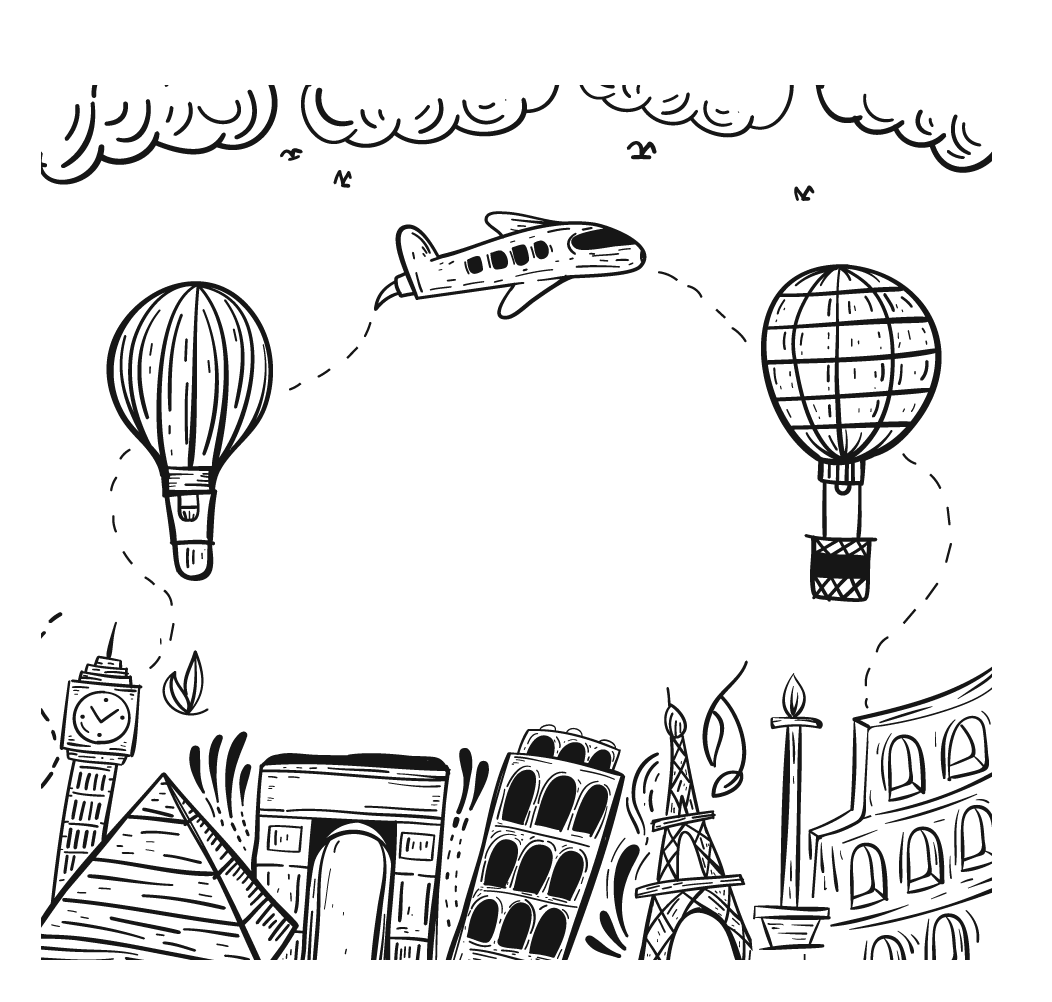
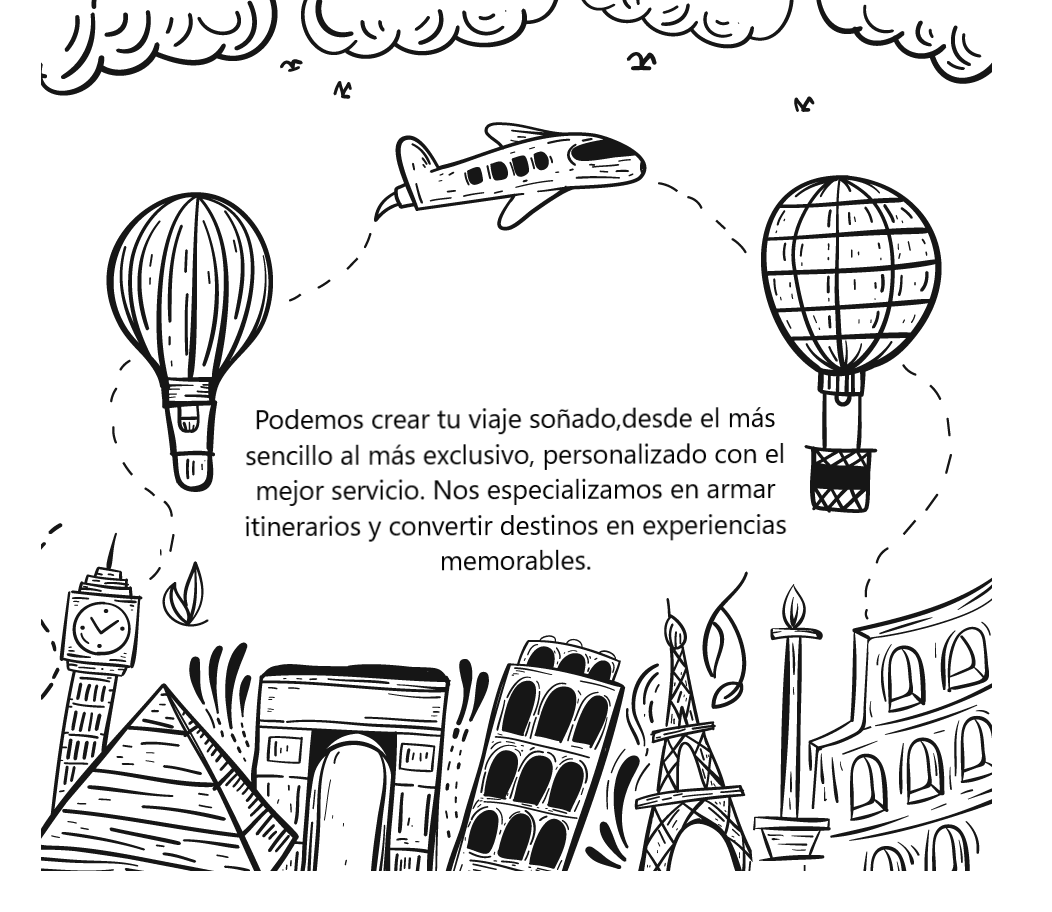
cambios con sass

diff --git a/index.html b/index.html
@@ -1,6 +1,27 @@
 <!DOCTYPE html>
 <html lang="en">
 <head>
+    <!-- Google Tag Manager -->
+<script>(function(w,d,s,l,i){w[l]=w[l]||[];w[l].push({'gtm.start':
+    new Date().getTime(),event:'gtm.js'});var f=d.getElementsByTagName(s)[0],
+    j=d.createElement(s),dl=l!='dataLayer'?'&l='+l:'';j.async=true;j.src=
+    'https://www.googletagmanager.com/gtm.js?id='+i+dl;f.parentNode.insertBefore(j,f);
+    })(window,document,'script','dataLayer','GTM-PBJB64N');</script>
+    <!-- End Google Tag Manager -->
+    <!-- Google tag (gtag.js) -->
+<script async src="https://www.googletagmanager.com/gtag/js?id=G-M3BYC2M1TW"></script>
+<script>
+  window.dataLayer = window.dataLayer || [];
+  function gtag(){dataLayer.push(arguments);}
+  gtag('js', new Date());
+
+  gtag('config', 'G-M3BYC2M1TW');
+</script>
+    <meta name="description"
+   content="Reserva tu paquete turístico en cuotas sin interés y empieza a distfrutar tus vacaciones!">
+
+   <meta name="keywords"
+   content="Viaja, Viajes, Tours, Reservas, Paquetes, Vuelos, Hospedaje, Turismo,">
     <meta charset="UTF-8">
     <meta http-equiv="X-UA-Compatible" content="IE=edge">
     <meta name="viewport" content="width=device-width, initial-scale=1.0">
@@ -10,9 +31,14 @@
     <link href="https://cdn.jsdelivr.net/npm/bootstrap@5.2.0/dist/css/bootstrap.min.css" rel="stylesheet" integrity="sha384-gH2yIJqKdNHPEq0n4Mqa/HGKIhSkIHeL5AyhkYV8i59U5AR6csBvApHHNl/vI1Bx" crossorigin="anonymous">       
     <link rel="stylesheet" href="./styles/styles.css">
     <link href="https://unpkg.com/aos@2.3.1/dist/aos.css" rel="stylesheet">
+
     <title>INICIO</title>
 </head>
 <body>
+    <!-- Google Tag Manager (noscript) -->
+<noscript><iframe src="https://www.googletagmanager.com/ns.html?id=GTM-PBJB64N"
+    height="0" width="0" style="display:none;visibility:hidden"></iframe></noscript>
+    <!-- End Google Tag Manager (noscript) -->
     <header>
         <a href="#" class="logo">
             <img src="./images/logoprueba5.jpg" alt="logo de vaTours" class="logo-img">

diff --git a/sections/servicios.html b/sections/servicios.html
@@ -1,6 +1,16 @@
 <!DOCTYPE html>
 <html lang="en">
 <head>
+  <!-- Google tag (gtag.js) -->
+<script async src="https://www.googletagmanager.com/gtag/js?id=G-M3BYC2M1TW"></script>
+<script>
+  window.dataLayer = window.dataLayer || [];
+  function gtag(){dataLayer.push(arguments);}
+  gtag('js', new Date());
+
+  gtag('config', 'G-M3BYC2M1TW');
+</script>
+
     <meta charset="UTF-8">
     <meta http-equiv="X-UA-Compatible" content="IE=edge">
     <meta name="viewport" content="width=device-width, initial-scale=1.0">
@@ -39,17 +49,24 @@
   <section>
     <div class="serviciosFondo">
       <div class="serviciosVarios">
-        <p>Podemos crear tu viaje soñado,
-
-          desde el más sencillo al más exclusivo, personalizado con el mejor servicio. 
-          
-          Nos especializamos en armar itinerarios y convertir destinos en experiencias memorables.</p>
+        <!--<p>Podemos crear tu viaje soñado,desde el más sencillo al más exclusivo, personalizado con el mejor servicio. Nos especializamos en armar itinerarios y convertir destinos en experiencias memorables.</p>-->
       </div>
     </div>
         
   </section>
 
-
+  <section>
+    <div class="tour-box bg01 aos-init aos-animate" data-aos="fade-right" style="background: url(../images/grupal.jpg) no-repeat; background-size: cover;">
+      <div class="contenedorServicios aos-init aos-animate" data-aos="fade-up" data-aos-delay="500">
+        <a href="" class="size-28"><strong>TOURS GRUPOS PEQUEÑOS</strong></a>
+      </div>
+    </div>
+    <div class="tour-box bg02 txt-r aos-init aos-animate" data-aos="fade-left" style="background: url(../images/solo2.jpg) no-repeat; background-size: cover;">
+      <div class="contenedorServicios aos-init aos-animate" data-aos="fade-up" data-aos-delay="500">
+        <a href="" class="size-28 txt-l"><strong>TOURS PRIVADOS</strong></a>
+      </div>
+    </div>
+  </section>
 
 
       <footer class="footer">

diff --git a/styles/styles.css b/styles/styles.css
@@ -14,10 +14,10 @@ body {
 
 header {
   display: flex;
-  min-height: 70px;
   background-color: #969ba2;
   justify-content: space-between;
   align-items: center;
+  min-height: 70px;
   padding: 10px;
 }
 
@@ -31,7 +31,8 @@ nav a:hover {
   color: white;
 }
 
-ul {
+/*Solo para uso del extend porque no encontre donde usarlo con mas efectividad porque no tengo variables que pueda repetir*/
+.pruebaExtend, ul {
   display: flex;
   text-decoration: none;
   list-style: none;
@@ -277,6 +278,53 @@ span.nombre-paquete {
   font-weight: bold;
 }
 
+.tour-box {
+  height: 400px;
+  background-size: cover;
+}
+
+.size-28{
+  font-size: 2.0rem !important;
+}
+
+.tour-box a {
+  text-decoration: none;
+  color: white;
+  display: inline-block;
+  padding: 20px 20px 20px 95px;
+  margin-top: 62px;
+  border-radius: 10px;
+  transition: 0.2s;
+}
+
+.tour-box.bg01 a {
+  background: rgba(0, 0, 0, 0.5) left 20px center no-repeat;
+}
+
+.tour-box.bg02 a {
+  background: rgba(0, 0, 0, 0.5) left 20px center no-repeat;
+}
+
+.containerServicios {
+  position: relative;
+  max-width: 1200px;
+  margin: 0 auto;
+  padding: 0 15px;
+  overflow: hidden;
+}
+
+.strong {
+  font-weight: bold;
+}
+
+.bg01 {
+  text-align: left;
+}
+
+.bg02 {
+  text-align: right;
+}
+
 /*Contacto*/
 .contactoEncabezado {
   display: flex;
@@ -457,18 +505,6 @@ option {
     flex-direction: row;
   }
 }
-/*@media (min-width: 1200px){
-    .container{
-    width: 1170px;
-}
-}
-
-@media (max-width: 992px){
-    .container{
-    width: 530px;
-}
-}
-*/
 @media (max-width: 768px) {
   .carousel-inner {
     height: 350px;

diff --git a/scss/layout/_servicios.scss b/scss/layout/_servicios.scss
@@ -1,0 +1,64 @@
+/*Servicios*/
+
+.serviciosFondo{
+    background-image: url(../images/Fondo-Viajes.png);
+    width: 100%;
+    height: 840px;
+    background-size: cover;
+    background-repeat: no-repeat;
+    display: flex;
+    align-items: center;
+    justify-content: center;
+}
+
+.serviciosVarios{
+    text-align: center;
+    width: 40%;
+    margin-top: 300px;
+}
+
+.serviciosVarios p{
+    font-size: 1.2rem;
+    font-weight: bold;
+}
+
+.tour-box{
+    height: 400px;
+    background-size: cover;
+}
+.tour-box a{
+    text-decoration: none;
+    color: white;
+    display: inline-block;
+    padding: 20px 20px 20px 95px;
+    margin-top: 62px;
+    border-radius: 10px;
+    transition: .2s;
+}
+.tour-box.bg01 a{
+    background: rgba(0, 0, 0, 0.5) left 20px center no-repeat;
+}
+
+.tour-box.bg02 a{
+    background: rgba(0, 0, 0, 0.5) left 20px center no-repeat
+}
+
+.containerServicios{
+    position: relative;
+    max-width: 1200px;
+    margin: 0 auto;
+    padding: 0 15px;
+    overflow: hidden;
+}
+
+.strong{
+    font-weight: bold;
+}
+
+.bg01{
+    text-align: left;
+}
+
+.bg02{
+    text-align: right;
+}

diff --git a/scss/layout/_header.scss b/scss/layout/_header.scss
@@ -1,10 +1,20 @@
-header{
-    display: flex;
-    min-height: 70px;
+@mixin Header(){
+    display:flex;
+    
     background-color: #969ba2;
     justify-content: space-between;
     align-items: center;
-    padding: 10px;
+    
+}
+
+@mixin Header2($argumento1, $argumento2){
+    min-height: $argumento1;
+    padding: $argumento2;
+}
+
+header{
+    @include Header();
+    @include Header2(70px, 10px)
 }
 
 nav{
@@ -19,11 +29,15 @@ nav{
     }
 }
 
-
-ul{
+/*Solo para uso del extend porque no encontre donde usarlo con mas efectividad porque no tengo variables que pueda repetir*/
+.pruebaExtend{
     display: flex;
     text-decoration: none;
     list-style: none;
+}
+
+ul{
+    @extend .pruebaExtend;
 }
 
 .logo{

diff --git a/sections/descubrir.html b/sections/descubrir.html
@@ -1,6 +1,16 @@
 <!DOCTYPE html>
 <html lang="en">
 <head>
+    <!-- Google tag (gtag.js) -->
+<script async src="https://www.googletagmanager.com/gtag/js?id=G-M3BYC2M1TW"></script>
+<script>
+  window.dataLayer = window.dataLayer || [];
+  function gtag(){dataLayer.push(arguments);}
+  gtag('js', new Date());
+
+  gtag('config', 'G-M3BYC2M1TW');
+</script>
+
     <meta charset="UTF-8">
     <meta http-equiv="X-UA-Compatible" content="IE=edge">
     <meta name="viewport" content="width=device-width, initial-scale=1.0">

diff --git a/sections/nosotros.html b/sections/nosotros.html
@@ -1,6 +1,16 @@
 <!DOCTYPE html>
 <html lang="en">
 <head>
+    <!-- Google tag (gtag.js) -->
+<script async src="https://www.googletagmanager.com/gtag/js?id=G-M3BYC2M1TW"></script>
+<script>
+  window.dataLayer = window.dataLayer || [];
+  function gtag(){dataLayer.push(arguments);}
+  gtag('js', new Date());
+
+  gtag('config', 'G-M3BYC2M1TW');
+</script>
+
     <meta charset="UTF-8">
     <meta http-equiv="X-UA-Compatible" content="IE=edge">
     <meta name="viewport" content="width=device-width, initial-scale=1.0">

diff --git a/sections/contacto.html b/sections/contacto.html
@@ -1,6 +1,16 @@
 <!DOCTYPE html>
 <html lang="en">
 <head>
+	<!-- Google tag (gtag.js) -->
+<script async src="https://www.googletagmanager.com/gtag/js?id=G-M3BYC2M1TW"></script>
+<script>
+  window.dataLayer = window.dataLayer || [];
+  function gtag(){dataLayer.push(arguments);}
+  gtag('js', new Date());
+
+  gtag('config', 'G-M3BYC2M1TW');
+</script>
+
     <meta charset="UTF-8">
     <meta http-equiv="X-UA-Compatible" content="IE=edge">
     <meta name="viewport" content="width=device-width, initial-scale=1.0">

diff --git a/scss/layout/_mediaqueries.scss b/scss/layout/_mediaqueries.scss
@@ -45,20 +45,9 @@
      
 }
 
-/*@media (min-width: 1200px){
-    .container{
-    width: 1170px;
-}
-}
 
-@media (max-width: 992px){
-    .container{
-    width: 530px;
-}
-}
-*/
 
-@media (max-width: 768px) {
+@media (max-width: 768px){
     .carousel-inner{
         height: 350px;
     }
